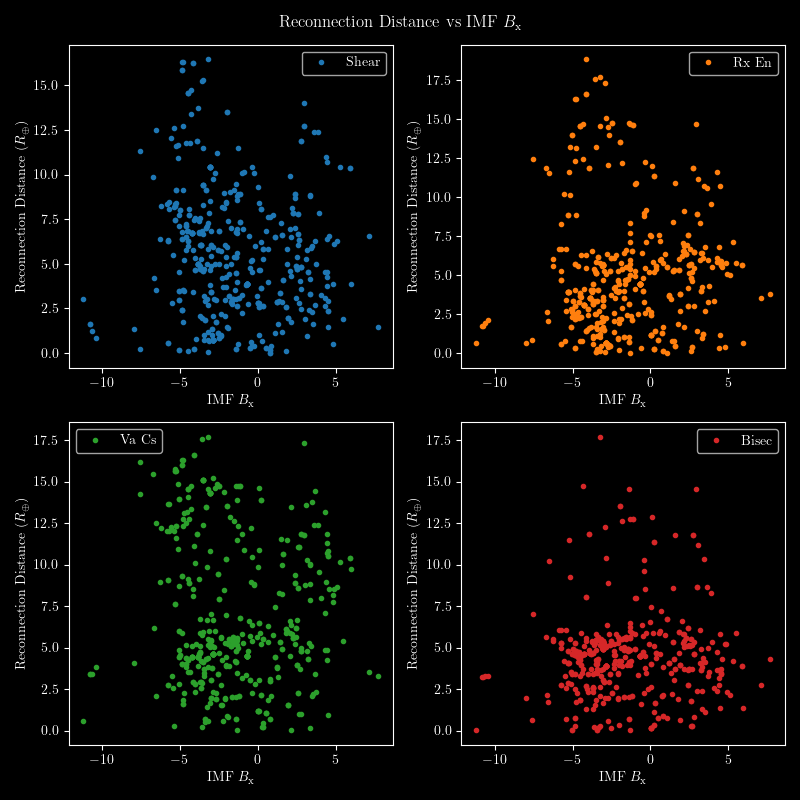
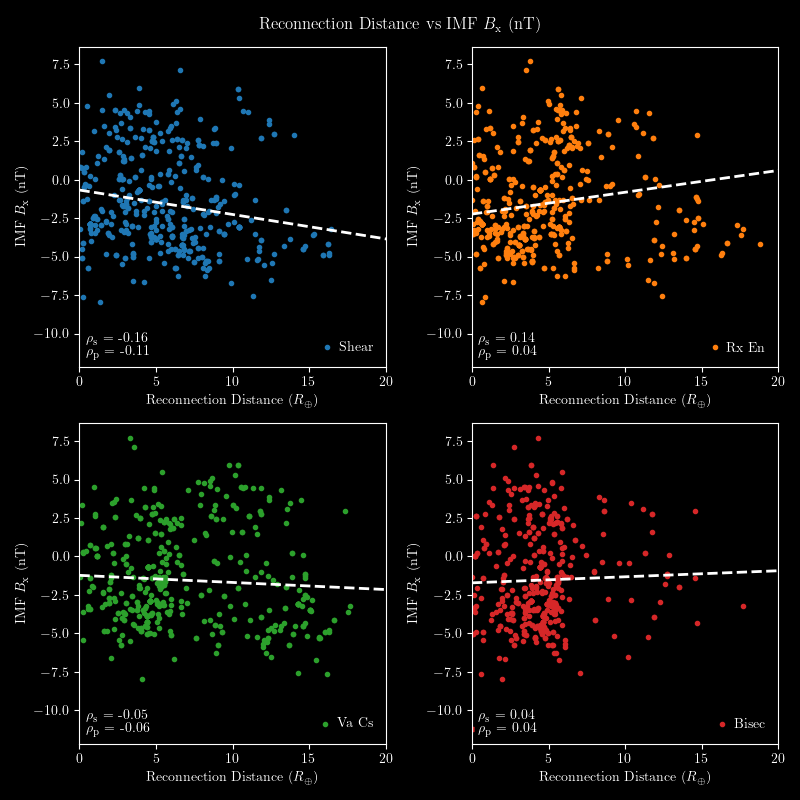
modified:   codes/test_plot.py 	new file:   figures/delta_beta_v_shear_angle.png 	new file:   figures/delta_beta_v_shear_angle_mean.png 	new file:   figures/delta_beta_v_shear_angle_median.png 	modified:   figures/rc_v_b_imf_x.png 	modified:   figures/rc_v_b_imf_y.png 	modified:   figures/rc_v_b_imf

diff --git a/codes/test_plot.py b/codes/test_plot.py
@@ -1,8 +1,11 @@
 import importlib
-import glob
 import numpy as np
 import matplotlib.pyplot as plt
 import pandas as pd
+import rx_model_funcs as rxmf
+import seaborn as sns
+
+importlib.reload(rxmf)
 
 file_name = "../data/rx_d/reconnection_line_data_mms3_20220927.csv"
 cut_type_list = ["jet", "walen1", "walen2", "walen_jet"]
@@ -18,7 +21,6 @@ df_shear_imfz = df_shear[df_shear["b_imf_z"] < 0]
 df_rx_en_imfz = df_rx_en[df_rx_en["b_imf_z"] < 0]
 df_va_cs_imfz = df_va_cs[df_va_cs["b_imf_z"] < 0]
 df_bisec_imfz = df_bisec[df_bisec["b_imf_z"] < 0]
-
 
 # If clock angle is greater than 180, then subtract 360 to get the angle
 # between the IMF and the Bz field.
@@ -58,12 +60,60 @@ df_bisec["imf_clock_angle"] = df_bisec["imf_clock_angle"].apply(
        'vp_lmn_vec_msp_median_n', 'walen1', 'walen2', 'x_gsm', 'y_gsm',
        'z_gsm']
 """
+
+b_lmn_vec_msh = np.full((df_shear.shape[0], 3), np.nan)
+
+b_lmn_vec_msh[:, 0] = df_shear["b_lmn_vec_msh_median_l"]
+b_lmn_vec_msh[:, 1] = df_shear["b_lmn_vec_msh_median_m"]
+b_lmn_vec_msh[:, 2] = df_shear["b_lmn_vec_msh_median_n"]
+
+b_lmn_vec_msp = np.full((df_shear.shape[0], 3), np.nan)
+b_lmn_vec_msp[:, 0] = df_shear["b_lmn_vec_msp_median_l"]
+b_lmn_vec_msp[:, 1] = df_shear["b_lmn_vec_msp_median_m"]
+b_lmn_vec_msp[:, 2] = df_shear["b_lmn_vec_msp_median_n"]
+
+msh_msp_shear = []
+for xx,yy in zip(b_lmn_vec_msh, b_lmn_vec_msp):
+    try:
+        msh_msp_shear.append(rxmf.get_shear(xx,yy, angle_unit="degrees"))
+    except Exception:
+        pass
+
+
+# Define the mass of proton in kg
+m_p = 1.6726219e-27
+
+# Define the absolute permeability of free space in m^2 kg^-1 s^-1
+mu_0 = 4 * np.pi * 1e-7
+
+# Define the Boltzmann constant in J K^-1
+k_B = 1.38064852e-23
+b_mag_msh = np.sqrt(df_shear["b_lmn_vec_msh_mean_l"]**2 + df_shear["b_lmn_vec_msh_mean_m"]**2 +
+                    df_shear["b_lmn_vec_msh_mean_n"]**2)
+b_mag_msp = np.sqrt(df_shear["b_lmn_vec_msp_mean_l"]**2 + df_shear["b_lmn_vec_msp_mean_m"]**2 +
+                    df_shear["b_lmn_vec_msp_mean_n"]**2)
+
+# Compute the magnetosheath beta value
+beta_msp_mean = 2 * mu_0 * df_shear.np_msp_mean.values * 1e6 * k_B * (2 *
+                df_shear.tp_para_msp_mean.values +
+                df_shear.tp_perp_msp_mean.values) / (3 * b_mag_msp ** 2 * 1e-18)
+
+beta_msh_mean = 2 * mu_0 * df_shear.np_msh_mean.values * 1e6 * k_B * (2 *
+                df_shear.tp_para_msh_mean.values +
+                df_shear.tp_perp_msh_mean.values) / (3 * b_mag_msh ** 2 * 1e-18)
+
+delta_beta = beta_msh_mean - beta_msp_mean
+
+df_shear["msh_msp_shear"] = msh_msp_shear
+df_shear["delta_beta"] = delta_beta
+
 df_list = [df_shear, df_rx_en, df_va_cs, df_bisec]
 label = ["Shear", "Rx En", "Va Cs", "Bisec"]
 key_list = ["b_imf_z", "b_imf_x", "b_imf_y", "imf_clock_angle", "beta_msh_mean", "np_msp_median",
             "tp_para_msp_median", "tp_perp_msp_median"]
-key2_list = ["IMF $B_{\\rm z}$", "IMF $B_{\\rm x}$", "IMF $B_{\\rm y}$", "IMF Clock Angle", "$\\beta_{\\rm p}$",
-             "$N_p$ (MSP)", "$Tp_{\\parallel}$", "$Tp_{\\perp}$"]
+key2_list = ["IMF $B_{\\rm z}$ (nT)", "IMF $B_{\\rm x}$ (nT)", "IMF $B_{\\rm y} (nT)$",
+             "IMF Clock Angle (${~}^{0}$)", "$\\beta_{\\rm p}$", "$N_p$ (MSP) (cm$^{-3}$)",
+             "$Tp_{\\parallel} (K)$", "$Tp_{\\perp} (K)$"]
 
 color_list = ['#1f77b4', '#ff7f0e', '#2ca02c', '#d62728']
 dark_mode = True
@@ -86,23 +136,42 @@ font = {'family': 'serif', 'weight': 'normal', 'size': 10}
 plt.rc('font', **font)
 plt.rc('text', usetex=True)
 
-
+label_fontsize = 15
+tick_fontsize = 12
+"""
 for key, key2 in zip(key_list, key2_list):
     plt.figure(figsize=(8,8))
     for i, df in enumerate(df_list):
+        # Find the spearman and pearson correlation between key and "r_rc"
+        spearman = df[key].corr(df["r_rc"], method="spearman")
+        pearson = df[key].corr(df["r_rc"], method="pearson")
+
         plt.subplot(2, 2, i+1)
-        plt.plot(df[key], df.r_rc, c=color_list[i], marker=".", ls=None, lw=0, label=label[i])
-        plt.legend()
-        plt.xlabel(f"{key2}")
-        plt.ylabel("Reconnection Distance $(R_\oplus)$")
-        if key == "beta_msh_mean":
-            plt.xscale("log")
+        plt.plot(df.r_rc, df[key], c=color_list[i], marker=".", ls=None, lw=0, label=label[i])
+        # Make a line with slope of spearman correlation coefficient
+        x = np.linspace(0, 25, 100)
+        y = spearman*x + np.mean(df[key]) - spearman*np.mean(df.r_rc)
+        plt.plot(x, y, c="w", ls="--", lw=2)
+
+        # Get the r^2 value
+        r2 = pearson**2
+
+        # Print the correlation coefficient on the plot in a box
+        plt.text(0.02, 0.02, f"$\\rho_{{\\rm {'s'}}}$ = {spearman:.2f}\n"
+                             f"$\\rho_{{\\rm {'p'}}}$ = {pearson:.2f}",
+                 transform=plt.gca().transAxes, va="bottom", ha="left",
+                 bbox=dict(facecolor='k', alpha=1, edgecolor='k', boxstyle='round,pad=0.2'))
+        plt.legend(loc=4, frameon=False, fontsize=10, ncol=1, handlelength=0.1)
+        plt.ylabel(f"{key2}")
+        plt.xlabel("Reconnection Distance $(R_\oplus)$")
+        if key == "beta_msh_mean" or key=="tp_para_msp_median" or key=="tp_perp_msp_median":
+            plt.yscale("log")
         # if key == "b_imf_z":
         #     plt.xlim(-5, 5)
-
+        plt.xlim(0, 20)
         # Reverse the x-axis
         if key == "imf_clock_angle":
-            plt.gca().invert_xaxis()
+            plt.gca().invert_yaxis()
     plt.suptitle(f"Reconnection Distance vs {key2}")
     plt.tight_layout()
 
@@ -113,3 +182,32 @@ for key, key2 in zip(key_list, key2_list):
 #plt.plot(df_bisec.beta_msh_mean, df_bisec.r_rc, c='w', marker=".", ls=None, lw=0, ms=5, alpha=0.5)
 #plt.xscale('log')
     plt.savefig(f"../figures/rc_v_{key}.png")
+"""
+shear_angle_theory = np.logspace(-1, np.log10(180), 100)
+delta_beta_theory_half = np.tan(np.deg2rad(shear_angle_theory/2))
+delta_beta_theory_one = 2 * np.tan(np.deg2rad(shear_angle_theory/2))
+delta_beta_theory_two = 4 * np.tan(np.deg2rad(shear_angle_theory/2))
+
+# Plot the delta beta vs shear angle
+plt.figure(figsize=(8,8))
+plt.scatter(df_shear.delta_beta, df_shear.msh_msp_shear, c=color_list[1], marker=".",
+            s=25*df_shear.r_rc.values, alpha=0.7)
+plt.plot(delta_beta_theory_half, shear_angle_theory, marker='.', c="w", ls=None, lw=0, label="Half")
+plt.plot(delta_beta_theory_one, shear_angle_theory, marker='.', c="b", ls=None, lw=0, label="One")
+plt.plot(delta_beta_theory_two, shear_angle_theory, marker='.', c="g", ls=None, lw=0, label="Two")
+
+lgnd = plt.legend(loc=4, frameon=False, fontsize=10, ncol=1, handlelength=0.1)
+for handle in lgnd.legendHandles:
+    handle.size = [1]
+
+plt.xlabel("$\\Delta \\beta$", fontsize=label_fontsize)
+plt.ylabel("Shear Angle (${~}^{0}$)", fontsize=label_fontsize)
+plt.title("Shear Angle vs $\\Delta \\beta$", fontsize=1.2 * label_fontsize)
+plt.tick_params(axis='both', which='major', labelsize=tick_fontsize)
+plt.xlim(1e-3, 2e1)
+plt.ylim(1e-1, 2e2)
+plt.xscale('log')
+plt.yscale('log')
+plt.savefig("../figures/delta_beta_v_shear_angle_mean.png")
+
+plt.close('all')
